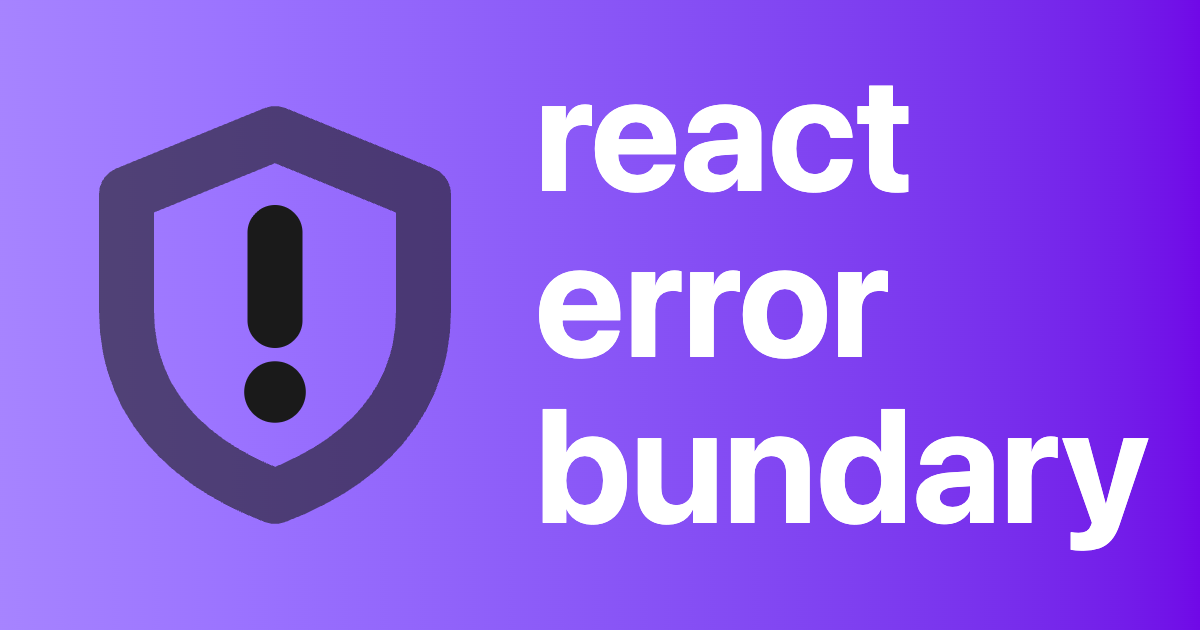
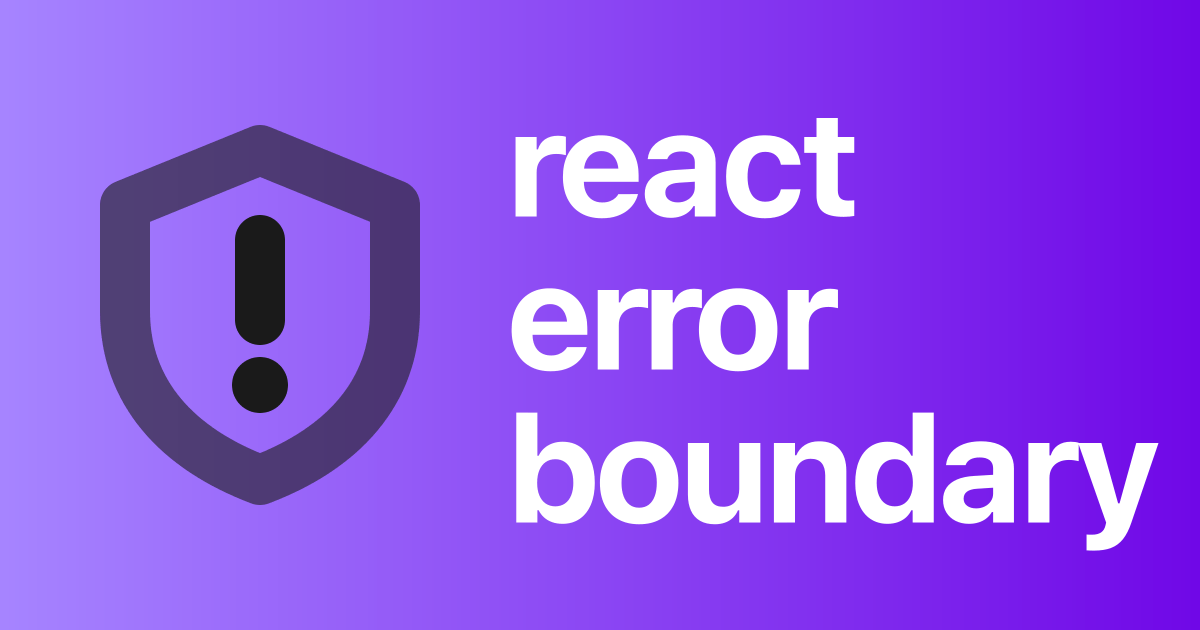
Update color scheme

diff --git a/index.css b/index.css
@@ -4,11 +4,11 @@
 @import "react-lib-tools/styles.css";
 
 @theme {
-  --color-background-gradient-1: var(--color-fuchsia-400);
-  --color-background-gradient-2: var(--color-purple-700);
-  --color-background-gradient-3: var(--color-pink-500);
-  --color-common-question-header: var(--color-fuchsia-200);
-  --color-focus-1: var(--color-sky-300);
-  --color-focus-2: var(--color-sky-400);
-  --color-focus-3: var(--color-sky-600);
+  --color-background-gradient-1: var(--color-violet-400);
+  --color-background-gradient-2: var(--color-violet-700);
+  --color-background-gradient-3: var(--color-violet-500);
+  --color-header-section: var(--color-violet-300);
+  --color-nav-active: var(--color-violet-300);
+  --color-nav-hover: var(--color-violet-300);
+  --color-common-question-header: var(--color-violet-300);
 }
